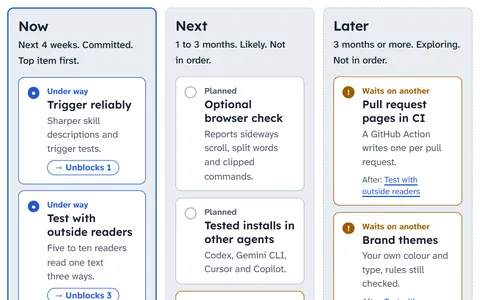
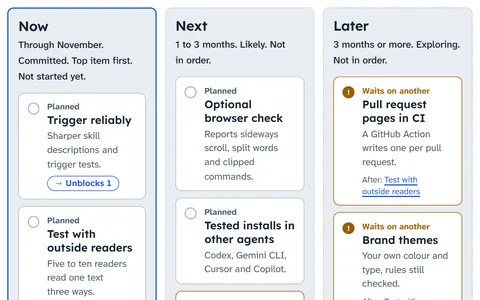
docs(roadmap): bring ROADMAP.md and the site roadmap to 20 October: Now items not started, shipped through 1.9.0

Changed region(s): [[0.0312, 0.12, 0.3125, 0.84], [0.0938, 0.87, 0.2812, 1.0]]

diff --git a/docs/roadmap.html b/docs/roadmap.html
@@ -1418,11 +1418,11 @@ html:not(.js) .ballot-tray { display: none; }
 
   <main id="main">
     <div class="focus-nav" aria-live="polite"><button type="button" data-prev>Previous</button><span class="where"></span><button type="button" data-next>Next</button></div>
-    <p class="kicker">Roadmap as of 14 October 2026</p>
+    <p class="kicker">Roadmap as of 20 October 2026</p>
     <h1>What comes next for html-explainer</h1>
     <div class="meta"><span>Reading time about 5 minutes</span><span><a href="index.html">Back to the site home</a></span></div>
 
-    <p class="answer">Every page is now checked automatically, so next we test pages with outside readers, and new page types wait until an outside user needs one.</p>
+    <p class="answer">Every kind of page now has a checked public example, so next we test pages with outside readers, and new page types wait until an outside user needs one.</p>
     <p class="asof">A plan, not a promise. Items move as we learn.</p>
 
     <div class="keep">
@@ -1452,9 +1452,9 @@ html:not(.js) .ballot-tray { display: none; }
 
       <div class="lanes">
         <section class="lane" data-lane="now"><h3>Now</h3>
-          <p class="lane-note">Next 4 weeks. Committed. Top item first.</p><ul>
-          <li id="r-trigger" class="here"><b>Trigger reliably</b><span>Sharper skill descriptions and trigger tests.</span></li>
-          <li id="r-test" class="here"><b>Test with outside readers</b><span>Five to ten readers read one text three ways.</span><small class="when"><b>Fixed date:</b> by 12 December, the review needs it.</small></li>
+          <p class="lane-note">Through November. Committed. Top item first. Not started yet.</p><ul>
+          <li id="r-trigger"><b>Trigger reliably</b><span>Sharper skill descriptions and trigger tests.</span></li>
+          <li id="r-test"><b>Test with outside readers</b><span>Five to ten readers read one text three ways.</span><small class="when"><b>Fixed date:</b> by 12 December, the review needs it.</small></li>
           <li id="r-name" class="wait"><b>Settle the name, then list</b><span>Pick the final name, then submit to registries.</span><small class="after">After: <a href="#r-trigger">Trigger reliably</a></small></li>
         </ul></section>
         <section class="lane" data-lane="next"><h3>Next</h3>
@@ -1475,8 +1475,8 @@ html:not(.js) .ballot-tray { display: none; }
       </div>
       <p class="take"><b>Take from this:</b> five items wait on another, and three wait on the outside-reader test.</p>
 
-      <details class="fold shipped"><summary><span>Shipped in 1.6.0 to 1.8.0: 3 items</span><a href="https://github.com/ariasr47/html-explainer-skill/blob/main/CHANGELOG.md">Changelog</a></summary>
-        <ul><li>Every page type redesigned around its own picture (1.8.0)</li><li>The field-guide page type (1.7.0)</li><li>Roadmap lanes that say what they mean, and prioritising that adds up (1.6.0)</li></ul>
+      <details class="fold shipped"><summary><span>Shipped in 1.6.0 to 1.9.0: 4 items</span><a href="https://github.com/ariasr47/html-explainer-skill/blob/main/CHANGELOG.md">Changelog</a></summary>
+        <ul><li>A public example of every kind of page, and an <a href="examples.html">examples page</a> (1.9.0)</li><li>Every page type redesigned around its own picture (1.8.0, polished in 1.8.1)</li><li>The field-guide page type (1.7.0)</li><li>Roadmap lanes that say what they mean, and prioritising that adds up (1.6.0)</li></ul>
         <p>Before that, 1.5.0 checked every page automatically, upgraded old pages and added answers by tapping. 1.4.0 moved each skill into a self-contained folder, and added this roadmap, a public site and an automatic check on every change.</p>
       </details>
 

diff --git a/ROADMAP.md b/ROADMAP.md
@@ -1,12 +1,14 @@
 # Roadmap
 
-What comes next and why, as of 13 October 2026. The plugin is free and MIT licensed, and it will stay that way. To ask for something, [open an issue](https://github.com/ariasr47/html-explainer-skill/issues/new/choose). A request from someone who has used a page moves an item up faster than anything else.
+What comes next and why, as of 20 October 2026. The plugin is free and MIT licensed, and it will stay that way. To ask for something, [open an issue](https://github.com/ariasr47/html-explainer-skill/issues/new/choose). A request from someone who has used a page moves an item up faster than anything else.
 
 **Focus.** Decision pages for readers who can't hold a long document, checked before they ship. Work that makes pages more trustworthy, easier to install or easier to read comes before new page types.
 
 A rendered version of this roadmap, made with the plugin, is at [ariasr47.github.io/html-explainer-skill/roadmap.html](https://ariasr47.github.io/html-explainer-skill/roadmap.html).
 
 ## Now: October and November 2026
+
+None of these has started yet. October went to the page redesign (1.8.0 and 1.8.1) and a public example of every kind of page (1.9.0). The 12 December review date stands.
 
 | # | Item | Why |
 |---|---|---|
@@ -43,7 +45,8 @@ On 12 December 2026 this roadmap is reviewed against outside feedback and the re
 
 ## Recently shipped
 
-- **1.9.0:** a working public example of every kind of page, an examples page on the site and a thumbnail grid in the README.
+- **1.9.0:** a working public example of every kind of page, an [examples page](https://ariasr47.github.io/html-explainer-skill/examples.html) on the site and a thumbnail grid in the README.
+- **1.8.1:** a polish round on the redesign: sentence-case labels, calmer callouts, roomier flow steps and a mini-map that scrolls on a phone.
 - **1.8.0:** every page type redesigned around its own picture: the answer as the headline, an At a glance section on the first screen, the rail as the chapter map, one Reading tools button and a calmer chapter. Old pages get the look through `upgrade.mjs`.
 - **1.7.0:** the field-guide page type, a reference with a territory map, a start-here list and a searchable index. The automatic check now skips pages made by a newer release.
 - **1.6.0:** roadmap lanes that state their horizon and confidence, one fixed set of status words, exception marks, derived "Unblocks N" counts, folded history and a backlog view; buckets for prioritising, a repaired rank control and a combined ranking in the merge tool.
